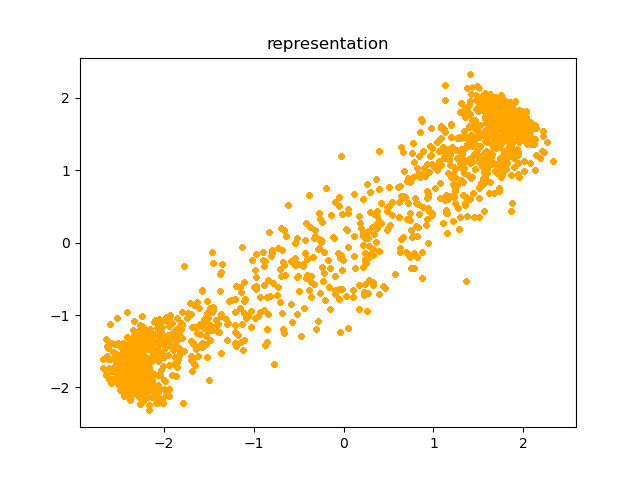
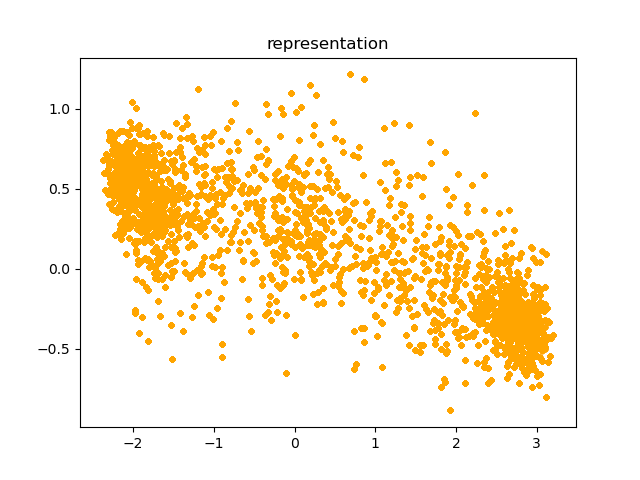
modyfied

diff --git a/train.py b/train.py
@@ -1,5 +1,6 @@
 import os
 import pdb
+from unicodedata import category
 import torch
 
 import numpy as np
@@ -22,21 +23,21 @@ from torch.utils.data.dataloader import default_collate
 
 class CFG:
     device = "cuda" if torch.cuda.is_available() else "cpu"
-    
-    bs = 2
+    bs = 4
     lr = 1e-5
     wd = 1e-4
     epoch = 150
     img_size = (512, 512)
     representation_dim = 2
 
-    data_path = r"/media/gauthierli-org/GauLi1/data/cell_segmentation/train_data"
+    data_path = r"F:\data\cell_segmentation\train_data"
     save_path = r"./checkpoint"
+    save_img = r"./log imgs"
 
     show_training_pic = True
 
-    resume = False
-    resume_path = r"/media/gauthierli-org/GauLi1code/生仝智能/representationAE/checkpoint/best.pth"
+    resume = True
+    resume_path = r"F:\representationAE\checkpoint\best.pth"
 
 # utils
 def make_folders(fold_name):
@@ -51,7 +52,7 @@ class cell_seg_dataset(Dataset):
         self.transform = transform
         self.train = train
         if file_list is None:
-            self.imgs = self._get_imgs_name(list(os.listdir(root)))[:6000]
+            self.imgs = self._get_imgs_name(list(os.listdir(root)))
         else:
             self.imgs = file_list
 
@@ -89,13 +90,11 @@ def build_transform():
     return T.Compose([T.Resize(CFG.img_size), T.ToTensor()])
 
 # 3 train one epoch
-def train_one_epoch(nce:nn.Module, discriminator:nn.Module, dataloader:DataLoader, MI_optimizer, D_optimizer):
+def train_one_epoch(epoch, nce:nn.Module, discriminator:nn.Module, dataloader:DataLoader, MI_optimizer, D_optimizer, monitor):
     nce.train()
     discriminator.train()
     nce.to(CFG.device)
-    # discriminator.to(CFG.device)
-    # show_rep = dynamic_pic("representation", style=".")
-    show_loss = dynamic_pic("loss", style="")
+    discriminator.to(CFG.device)
 
     mi_loss = 0
     train_count = 0
@@ -103,43 +102,29 @@ def train_one_epoch(nce:nn.Module, discriminator:nn.Module, dataloader:DataLoade
     pbar = tqdm(dataloader, total=N, file=sys.stdout)
     for num, (imgs, _) in enumerate(pbar):
         assert imgs.shape[-1] == nce.inp_sh, "Img shape doesnot match model needs ..."
-        # ---------------------------------------------------------------
-        # 1 first train discriminator
-        # ---------------------------------------------------------------
-        if train_count < 200:
-            MI_optimizer.zero_grad()
-            D_optimizer.zero_grad()
-            representation = nce.encoder(imgs.to(CFG.device))
-            representation = nce.compressNet(representation)
-            sample_data = get_gaussian_sampler(CFG.bs, CFG.representation_dim)
-            
-            discriminate_loss = discriminator(representation) - discriminator(sample_data.to(CFG.device)) + 1
-            discriminate_loss.backward()
-
-            if CFG.show_training_pic:
-                show_loss(num, discriminate_loss.item())
-
-            train_count += 1
-            D_optimizer.step()
+        feature = nce.encoder(imgs.to(CFG.device))
+        representation = nce.compressNet(feature)
+        sample_data = get_gaussian_sampler(CFG.bs, CFG.representation_dim)
         
-        if train_count >= 200 and train_count < 400:
+        if train_count < 400:
             # ---------------------------------------------------------------
             # 2 encoder fool discriminator
             # ---------------------------------------------------------------
             MI_optimizer.zero_grad()
             D_optimizer.zero_grad()
 
-            representation = nce.encoder(imgs.to(CFG.device))
-            representation = nce.compressNet(representation)
-            # if CFG.show_training_pic:
-            #     x, y = representation[0].cpu().detach().numpy()
-            #     show_rep(x, y)
+            if CFG.show_training_pic:
+                x, y = representation.squeeze().cpu().detach().numpy().T
+                monitor(x, y, category='representation', mode="scatter")
 
-            fool_discriminator_loss = 1 - discriminator(representation)
+            fool_discriminator_loss = - torch.log(discriminator(representation)) + torch.log(discriminator(sample_data.to(CFG.device)))
+            
+            if CFG.show_training_pic:
+                monitor(num, fool_discriminator_loss.item(), category='fool_discriminator', drop_x=True)
+
             fool_discriminator_loss.backward()
 
             MI_optimizer.step()
-            train_count += 1
         
         
             # ---------------------------------------------------------------
@@ -153,19 +138,43 @@ def train_one_epoch(nce:nn.Module, discriminator:nn.Module, dataloader:DataLoade
 
             MI_optimizer.step()
 
+            if CFG.show_training_pic:
+                monitor(num, MI_loss.item(), category='MI_loss', drop_x=True)
 
             pbar.desc = f"[training] loss: {MI_loss.item()}"
             mi_loss += MI_loss.item()
+        
 
-        if train_count >= 400:
+        # ---------------------------------------------------------------
+        # 1 first train discriminator
+        # ---------------------------------------------------------------
+        if train_count >= 400 and train_count < 600:
+            MI_optimizer.zero_grad()
+            D_optimizer.zero_grad()
+            
+            
+            discriminate_loss = torch.log(discriminator(representation)) - torch.log(discriminator(sample_data.to(CFG.device)))
+            discriminate_loss.backward()
+            if CFG.show_training_pic:
+                monitor(num, discriminate_loss.item(), category='discriminate_loss')
+            D_optimizer.step()
+
+
+        train_count += 1
+        if train_count >= 600:
             train_count = 0
 
+        if num % 100:
+            monitor.draw(row_max=1, pause=0, save_path=os.path.join(CFG.save_img,f"loss_at_frequence{100}.png"))
+    
+    plt.savefig(os.path.join(CFG.save_img, f"loss_at_epoch{epoch}.png"))
     print("loss: {:.5f} lr: {:.6f}".format(2 * mi_loss/N, MI_optimizer.param_groups[0]['lr']), flush=True)
     return mi_loss/N
     
 # 4 model & loss & optimizer & lr scheduler & save checkpoint
 if __name__ == "__main__":
     make_folders(CFG.save_path)
+    make_folders(CFG.save_img)
     encoder = Encoder(3,CFG.representation_dim)
     compressNetwork = compressNet((16,16), dropout=0)
     if CFG.resume:
@@ -188,16 +197,17 @@ if __name__ == "__main__":
     train_loader = build_dataloader(dataset=train_dataset)
     
     MI_optimizer = torch.optim.AdamW(nce.parameters(),lr=CFG.lr, weight_decay=CFG.wd)
-    D_optimizer = torch.optim.AdamW(discriminator.parameters(), lr=CFG.lr, weight_decay=CFG.wd)
+    D_optimizer = torch.optim.SGD(discriminator.parameters(), lr=1e-2)
     MI_lr_schedule = torch.optim.lr_scheduler.ExponentialLR(MI_optimizer, gamma=0.98)
     D_lr_schedule = torch.optim.lr_scheduler.ExponentialLR(D_optimizer, gamma=0.98)
 
     best_loss = 999
+    monitor = dynamic_pic(5000)
     for epoch in range(CFG.epoch):
 
-        loss = train_one_epoch(nce=nce, discriminator=discriminator, dataloader=train_loader, MI_optimizer=MI_optimizer, D_optimizer=D_optimizer)
+        loss = train_one_epoch(epoch, nce=nce, discriminator=discriminator, dataloader=train_loader, MI_optimizer=MI_optimizer, D_optimizer=D_optimizer, monitor=monitor)
         MI_lr_schedule.step()
         D_lr_schedule.step()
         if loss < best_loss:
             best = best_loss
-            torch.save({"encoder": encoder.state_dict(), "compressNetwork": compressNetwork.state_dict()}, os.path.join(CFG.save_path, "best.pth"))
+            torch.save({"encoder": encoder.state_dict(), "compressNetwork": compressNetwork.state_dict(), "discriminator": discriminator.state_dict()}, os.path.join(CFG.save_path, "best.pth"))

diff --git a/utils/vis.py b/utils/vis.py
@@ -1,49 +1,89 @@
 import os
-import torch
 import time
+import torch
+import random 
 
 import numpy as np
 import matplotlib.pyplot as plt
 
+
 class dynamic_pic():
-    r"""need to plt.show() at end of the code,
-        examples:
-        >>> monitor = dynamic_pic("Dynamic representation", xlabel="x", ylabel="y")
-        >>> for i in range(100):
-        >>>     monitor(i*0.1, np.sin(i*0.1))
-        >>>     plt.show()
-    """
-    def __init__(self,title, xlabel="", ylabel="",  style="", pause=0.001, color="orange"):
-        self.title = title
-        self.xlabel = xlabel
-        self.ylabel = ylabel
-        self.style = style
-        self.pause = pause
-        self.color = color
+    def __init__(self , capacity=5000):
+        self.capacity = capacity
+        self.data_base = dict()
+        self.cnames = ["royalblue", "orange", "salmon", "slategray", "sage", "wheat"]
 
-        self.xlist = []
-        self.ylist = []
+    def draw(self, joint:list=None, row_max=3, pause=1, save_path=None):
+        """drop_x for the no x data"""
+        plt.close()
+        if joint is None:
+            joint = list(self.data_base.keys())
+        sub_num = len(joint)
+        row = np.ceil(sub_num / row_max).astype(int)
 
-        self._set_draw()
-
-    def _set_draw(self):
-        assert len(self.xlist) == len(self.ylist), "xlist must have the same length as ylist"
-        plt.figure()
-        plt.xlabel(self.xlabel)
-        plt.ylabel(self.ylabel)
-        plt.title(self.title)
-
-    def __call__(self, x_value, y_value):
-        self.xlist.append(x_value)
-        self.ylist.append(y_value)
-        plt.plot(self.xlist, self.ylist, self.style, color=self.color)
-        plt.pause(0.001)
+        plt.figure(figsize=(row_max * 9, row * 6))
+        num = 1
+        for item in joint:
+            if isinstance(item, str):
+                plt.subplot(row, row_max, num)
+                if self.data_base[item]["mode"] == "line":
+                    plt.plot(self.data_base[item]["x"], self.data_base[item]["y"], label=item)
+                else:
+                    plt.scatter(self.data_base[item]["x"], self.data_base[item]["y"], label=item, marker=".", linewidths=0.3)
+            elif isinstance(item, list):
+                plt.subplot(row, row_max, num)
+                for i, it in enumerate(item):
+                    if self.data_base[it]["mode"] == "line":
+                        plt.plot(self.data_base[it]["x"], self.data_base[it]["y"], label=it, color=self.cnames[i])
+                    else:
+                        plt.scatter(self.data_base[it]["x"], self.data_base[it]["y"], label=it, marker=".", color=self.cnames[i], linewidths=0.3)
+            plt.legend(loc="best")
+            num += 1
+        plt.tight_layout()
+        if pause != 0:
+            plt.pause(pause)
+        elif save_path is not None:
+            plt.savefig(save_path)
         
+    def _write(self, x,  y, category:str="base", mode="line", drop_mode="drop", drop_x=False):
+        """mode only received as 'line' of 'scatter' , drop mode: drop or jump"""
+        if category not in self.data_base:
+            self.data_base[category] = {"x":[], "y":[], "mode":mode}
+        
+        if len(self.data_base[category]["x"]) >= self.capacity:
+            if mode == "line":
+                if drop_mode == "jump":
+                    self.data_base[category]["x"] = [self.data_base[category]["x"][i] for i in range(self.capacity) if i % 2 == 0]
+                    self.data_base[category]["y"] = [self.data_base[category]["y"][i] for i in range(self.capacity) if i % 2 == 0]
+                elif drop_mode == "drop":
+                    del self.data_base[category]["x"][0:int(self.capacity / 2)]
+                    del self.data_base[category]["y"][0:int(self.capacity / 2)]
+            elif mode == "scatter":
+                del self.data_base[category]["x"][0:int(self.capacity / 2)]
+                del self.data_base[category]["y"][0:int(self.capacity / 2)]
+            else:
+                raise ValueError("mode only received as base line or scatter")
+
+        if isinstance(x, list):
+            self.data_base[category]["x"] += x
+            self.data_base[category]["y"] += y
+        else:
+            self.data_base[category]["x"].append(x)
+            self.data_base[category]["y"].append(y)
+
+        if drop_x:
+            self.data_base[category]["x"] = [i for i in range(len(self.data_base[category]["y"]))]
+
+    def __call__(self, x, y, category:str="base", mode="line", drop_mode="drop", drop_x=False):
+        self._write(x, y, category, mode, drop_mode, drop_x)
 
 if __name__ == '__main__':
-    N=100
-    monitor = dynamic_pic("Dynamic representation", xlabel="x", ylabel="y")
-    for i in range(N):
-        # 放绘图代码 draw
-        monitor(i*0.1, np.sin(i*0.1))
-    plt.show()
+    p1 = dynamic_pic(capacity=3000)
+    for i in range(1000):
+        # print((torch.randn(3, 2) / 5 + 2).numpy().T)
+        x1, y1 = (torch.randn(3, 2) / 5 + 2).numpy().T
+        x, y = (torch.randn(3, 2) / 5).numpy().T
+        p1(x, y, category="a", mode="scatter")
+        p1(x1, y1, category="b", mode="scatter")
+        # if i % 10 == 0:
+        p1.draw(joint=[["a", "b"]], row_max=1)

diff --git a/model/compressAndScore.py b/model/compressAndScore.py
@@ -151,23 +151,20 @@ class Discriminator(nn.Module):
     def __init__(self, feature_dim):
         super(Discriminator, self).__init__()
         self.feature_dim = feature_dim
-        self.linear1 = nn.Linear(feature_dim, 64, bias=False)
-        self.bn1 = nn.BatchNorm1d(64)
-        self.linear2 = nn.Linear(64,32)
-        self.bn2 = nn.BatchNorm1d(32)
-        self.linear3 = nn.Linear(32, 1)
+        self.linear1 = nn.Linear(feature_dim, 8, bias=False)
+        self.bn1 = nn.BatchNorm1d(8)
+        self.linear2 = nn.Linear(8,1)
         self.activation = nn.LeakyReLU(inplace=True)
 
     def forward(self, representations):
         assert representations.shape[1] == self.feature_dim, "CHANNEL DIMENSION DOESN'T MATCH ... ..."
         out = self.activation(self.bn1(self.linear1(representations.squeeze(dim=2))))
-        out = self.activation(self.bn2(self.linear2(out)))
-        out = self.activation(self.linear3(out))
+        out = self.linear2(out)
         return nn.Sigmoid()(out).mean()
 
 
 def get_gaussian_sampler(train_batch, z_dim):
-    return Variable((torch.randn(train_batch, z_dim, dtype=torch.float32).unsqueeze(dim=2)) / 5.)
+    return Variable((torch.randn(train_batch, z_dim, dtype=torch.float32).unsqueeze(dim=2) + 2) / 5.)
 
 
 class InfoNCELossNet(nn.Module):
@@ -197,7 +194,7 @@ class InfoNCELossNet(nn.Module):
             g_score_map.append(torch.stack(g_tmp_row))
             l_score_map.append(torch.stack(l_tmp_row))
         l_score_map, g_score_map = torch.stack(l_score_map), torch.stack(g_score_map)
-        l_score_map, g_score_map = nn.Sigmoid()(l_score_map), nn.Sigmoid()(g_score_map)
+        l_score_map, g_score_map = nn.Softmax()(l_score_map), nn.Softmax()(g_score_map)
 
         mask = torch.eye(l_score_map.shape[0]).to(features.device)
         l_score_map, g_score_map = torch.log((l_score_map * mask).sum(dim=0)), torch.log((g_score_map * mask).sum(dim=0))
